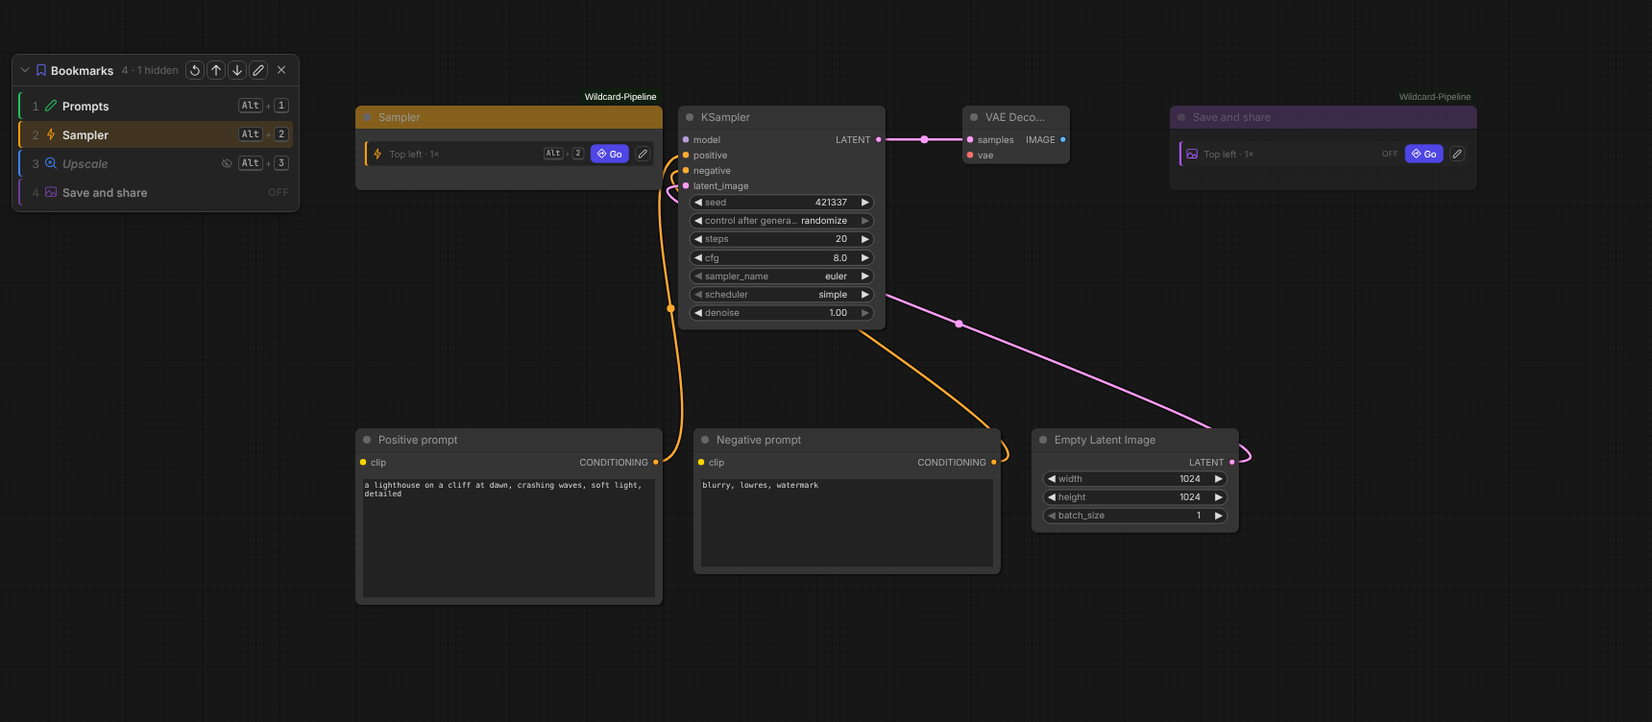
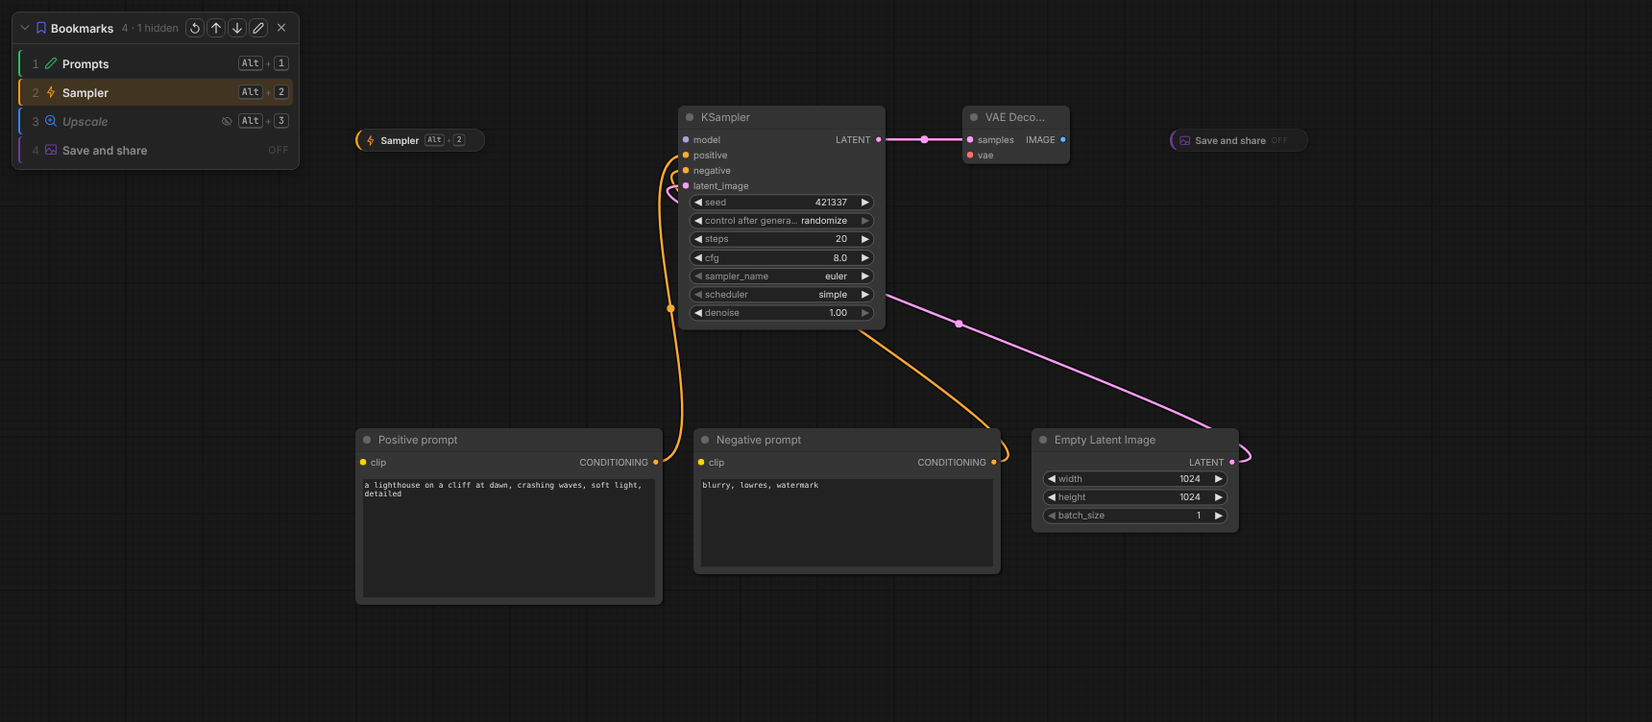
docs(canvas): frameless bookmarks, Use this view, the draggable dock and new screenshots

Changed region(s): [[0.0, 0.0306, 0.1849, 0.2753], [0.2157, 0.1223, 0.4006, 0.2753], [0.7087, 0.1223, 0.8936, 0.2447]]

diff --git a/src/manager/docs/figures.ts b/src/manager/docs/figures.ts
@@ -20,9 +20,9 @@ export const FIGURE_TEXT: Record<string, string> = {
   "wp-label-grid-flow":
     "Flow diagram of three nodes left to right: WP Context Loop (a sweep), an arrow labelled frames, WP Image Filter (images + labels), an arrow labelled images, labels, and WP Label & Grid (labelled grid). Caption: wire the Image Filter's images and labels into the node; the labels name each frame's sweep options, so the grid can sort by them.",
   "images/docs/wp-bookmark.png":
-    "Screenshot of a small text-to-image graph (Positive prompt, Negative prompt and Empty Latent Image into a KSampler, then VAE Decode) with two WP Bookmark nodes. On the right, Sampler (amber title bar) shows its read view: one line with a lightning icon, Centre · 1.25×, the shortcut Alt + 1, a Go button and a pencil to edit. On the left, Prompts (green title bar) is open in its editor: a pencil icon, colour #22c55e, the name and Go; Lands at shows a 3 × 3 grid with the top-left dot picked (Top left of the screen, 24 px in); Zoom is set to Keep current; the shortcut is Ctrl + S with a lightning (suggest) and × (clear) button, under which an amber warning reads Also Save Workflow (ComfyUI); Show on canvas is on, and Done closes the editor.",
+    "Screenshot of a small text-to-image graph (Positive prompt, Negative prompt and Empty Latent Image into a KSampler, then VAE Decode) with two WP Bookmarks, neither with a node frame. On the right, Sampler is a small pill: an amber lightning icon, the name Sampler and the shortcut Alt + 1. On the left, Prompts is open in its editor card with a green edge: a pencil icon button, colour #22c55e and the name; Lands at shows a 3 × 3 grid with the top-left dot picked (Top left of the screen, 24 px in) and a Use this view button; Zoom is set to Keep current; the shortcut is Ctrl + S with a lightning (suggest) and × (clear) button, under which an amber warning reads Also Save Workflow (ComfyUI); then the Show on canvas and Pinned switches, and Go and Done buttons.",
   "images/docs/wp-bookmark-dock.png":
-    "Screenshot of the Bookmarks dock, in view mode, at the top left of the canvas. Its header reads Bookmarks, 4 · 1 hidden, with Back, Previous, Next, a pencil to edit and Close. The rows show a number, a coloured icon, a name and a shortcut: 1 Prompts (Alt + 1), 2 Sampler (Alt + 2, highlighted as the bookmark just jumped to), 3 Upscale in grey italics with a small crossed-out eye because it is hidden on the canvas (Alt + 3), and 4 Save and share marked OFF because the node is muted. To the right of the dock the canvas shows the Sampler bookmark in its one-line read view (Top left · 1×, Alt + 2, Go, pencil), landed at the top left beside the dock, then the KSampler, VAE Decode and the muted Save and share bookmark (greyed, marked OFF), with the prompt and latent nodes below; the hidden Upscale bookmark is not drawn.",
+    "Screenshot of the Bookmarks dock, in view mode, at the top left of the canvas, slightly see-through. Its header reads Bookmarks, 4 · 1 hidden, with Back, Previous, Next, a pencil to edit and Close. The rows show a number, a coloured icon, a name and a shortcut: 1 Prompts (Alt + 1), 2 Sampler (Alt + 2, highlighted as the bookmark just jumped to), 3 Upscale in grey italics with a small crossed-out eye because it is hidden on the canvas (Alt + 3), and 4 Save and share marked OFF because the node is muted. On the canvas, the Sampler bookmark's pill (Alt + 2) sits by the KSampler and VAE Decode, the muted Save and share pill is greyed and marked OFF, and the prompt and latent nodes are below; the hidden Upscale bookmark is not drawn.",
   "images/docs/wp-label-grid.png":
     "Screenshot of a canvas with three nodes. On the left, Your images (a 3 × 3 sweep) sends images and labels into WP Label & Grid. Its panel reads 9 images · labelled · grid 1645×2246 at the top; under LABEL the text is {label}, placed below the image with Over image on, the default font at automatic size, white text on a see-through black band; under GRID the switch is on and the XY plot preset is picked from a row of presets (Fit the run, Sheet, Side by side, Frame rows, Frame columns, XY plot, No grid), with Rows from label part 2 (dawn, noon, night), Columns from label part 3 (pastel, vivid, ink) and the title Time of day × style. Its grid output feeds a Preview Image showing a 3 × 3 grid of mountain landscapes under that title, with column headers pastel, vivid, ink, row headers dawn, noon, night, and each cell labelled #1 to #9 on a band over its bottom edge.",
   "seeds-and-loops-flow":
@@ -90,7 +90,7 @@ export const FIGURE_TEXT: Record<string, string> = {
   "images/docs/wp-note-editor.png":
     "A WP Note open in its editor next to a finished Step card. The editor has Tone (Step, Icon, Plain) with the step number 2, Look (Card, Sticky, Label) with the Pinned switch, a row of colour presets with the custom colour #ef4444, the Title Label each frame, and the Text with its formatting bar: bold, italic, strikethrough, code, bulleted and numbered list, quote, link (pressed), icon and a preview eye. The link panel is open: Docs page is picked, the page is WP Label & Grid and the section Set it up, the text is Set up the grid, the style is Button with the Th Large icon, and Colour is #22c55e (None follows the note), with Cancel and Insert link. Under it is the note's Markdown and a Done button. The card on the right, step 1 Load your model, reads Pick the checkpoint in the loader. $model_family follows it, so the prompt fits the model, with two link buttons: WP Model Info in the note's colour and Writing prompts for your model in green.",
   "images/docs/wp-note-bookmark.png":
-    "Screenshot of WP Notes used as bookmarks. On the left, the Bookmarks dock lists three rows: 1 Load your model (a blue bookmark icon, Alt + 1, highlighted after a jump), 2 Sampler (an amber lightning icon, Alt + 3) and 3 Label each frame (a red bookmark icon, Alt + 2). In the middle, the note Label each frame is open in its editor (Step 2, Card, colour #ef4444, its title and Markdown text); at the bottom the Also a bookmark switch is on, with the hint Jump here from the Bookmarks dock or a shortcut, and under it Lands at with the centre of a 3 × 3 grid picked (Centre of the screen, 24 px in), Zoom set to 1 ×, and the shortcut Alt + 2, then Done. On the right, the note card Load your model (step 1, blue) shows a small bookmark mark in its head next to the pencil, and below it a WP Bookmark node, Sampler, in its one-line read view: Centre · 1.25×, Alt + 3, Go and a pencil.",
+    "Screenshot of WP Notes used as bookmarks. On the left, the Bookmarks dock lists three rows: 1 Load your model (its step number 1 in a blue circle, Alt + 1, highlighted after a jump), 2 Sampler (an amber lightning icon, Alt + 3) and 3 Label each frame (its step number 2 in a red circle, Alt + 2). In the middle, the note Label each frame is open in its editor (Step 2, Card, colour #ef4444, its title and Markdown text); at the bottom the Also a bookmark switch is on, with the hint Jump here from the Bookmarks dock or a shortcut, and under it Lands at with the centre of a 3 × 3 grid picked (Centre of the screen, 24 px in) and a Use this view button, Zoom set to 1 ×, and the shortcut Alt + 2, then Done. On the right, the note card Load your model (step 1, blue) shows a small bookmark mark in its head next to the pencil, and below it a WP Bookmark, Sampler, as a pill: a lightning icon, its name and Alt + 3.",
   "images/docs/wp-note.png":
     "Four WP Notes on the canvas with no node frame around them. A Step 1 card, Load your model, with a $model_family code span and two docs buttons (WP Model Info, Writing prompts for your model); an amber Warning card with a triangle icon and a lock icon in its text; a green Tip sticky with a lightbulb, tinted with its colour; and a small purple Label pill, Label each frame, whose hover card is open above it with the label's text, a The grid docs button and an Edit button.",
   "images/docs/wp-toggles.png":

diff --git a/src/manager/docs/pages/nodes/wp-bookmark.vue b/src/manager/docs/pages/nodes/wp-bookmark.vue
@@ -8,12 +8,14 @@ import DocKeyList from "../../../components/docs/DocKeyList.vue";
 import CrossLinks from "../../../components/docs/CrossLinks.vue";
 
 const controls = [
-  { term: "Icon, colour, name", desc: "How the bookmark shows in the dock. The colour also tints the node's title bar." },
-  { term: "Go", desc: "Jump now." },
-  { term: "Lands at", desc: "A 3×3 grid: the corner, edge or centre of the screen the bookmark goes to, 24 px in from the edge (beside the dock while it's open)." },
+  { term: "Icon, colour, name", desc: "The icon opens the full icon list. The colour marks the pill and its dock row." },
+  { term: "Lands at", desc: "A 3×3 grid: the corner, edge or centre of the free part of the screen (what ComfyUI's sidebar, breadcrumb, toolbar and zoom controls leave), 24 px in. A jump that would land under the dock moves just enough to clear it." },
+  { term: "Use this view", desc: "Lands on the view on screen now, at its zoom, instead of a grid spot." },
   { term: "Zoom", desc: "Set jumps to that zoom (0.1–10×; the magnifier takes the zoom you're at). Keep current leaves it alone." },
-  { term: "Shortcut", desc: "Record, then press the keys (Esc cancels, Backspace clears). The bolt picks a free one." },
-  { term: "Show on canvas", desc: "Off hides the node: not drawn, not clickable, not selectable. The dock's eye shows it again." },
+  { term: "Shortcut", desc: "Record, then press the keys (Esc cancels, Backspace clears). The bolt picks a free one, a new one on each press." },
+  { term: "Show on canvas", desc: "Off hides the node when you press Done: not drawn, not clickable, not selectable. The dock's eye shows it again." },
+  { term: "Pinned", desc: "ComfyUI's own pin: a pinned bookmark can't be moved by accident." },
+  { term: "Go", desc: "Tries the jump." },
 ];
 
 const clashes = [
@@ -23,10 +25,10 @@ const clashes = [
 ];
 
 const dock = [
-  { term: "Row", desc: "Click to jump. Number, icon, name and shortcut; a mark for one hidden on the canvas or inside a subgraph, OFF for a muted one." },
+  { term: "Row", desc: "Click to jump. Number (a Step note's in its circle), icon, name and shortcut; a mark for one hidden on the canvas or inside a subgraph, OFF for a muted one." },
   { term: "Back", desc: "Return to where you were before the last jump." },
   { term: "↑ / ↓", desc: "Step through the bookmarks that are on, in dock order." },
-  { term: "Pencil", desc: "Edit mode: drag the grips to reorder, the eye shows or hides a bookmark on the canvas, the arrow moves the dock to the other side, and Bookmark this view adds one at the top-left of the screen with the zoom you're at. Done goes back." },
+  { term: "Pencil", desc: "Edit mode: drag the dock by its header to put it anywhere (it stays there), drag the grips to reorder, the eye shows or hides a bookmark on the canvas, the arrow puts the dock back on the other side, and Bookmark this view adds one. Done goes back." },
 ];
 </script>
 
@@ -49,7 +51,7 @@ const dock = [
       <DocImage
         src="images/docs/wp-bookmark.png"
         ratio="1720 / 752"
-        caption="Sampler in its one-line read view; Prompts open in the editor, where the clash check flags Ctrl+S."
+        caption="Sampler as a pill on the canvas; Prompts open in its editor, where the clash check flags Ctrl+S."
       />
     </DocSection>
 
@@ -61,12 +63,12 @@ const dock = [
       </p>
     </DocSection>
 
-    <DocSection title="Read view and editor">
+    <DocSection title="On the canvas">
       <p>
-        A saved bookmark shows one line: its icon, where it lands and its zoom, its shortcut (with a
-        warning mark when something else uses it), <b>Go</b> and a pencil. The pencil, or a
-        double-click on the node, opens the editor; <b>Done</b> closes it. A new bookmark opens in the
-        editor.
+        A bookmark has no node frame: it is a small pill with its icon, name and shortcut (a warning
+        mark when something else uses the key, a pin when it is pinned). Hover it for where it lands.
+        Select it to show its pencil; the pencil or a double-click opens the editor, and <b>Done</b>
+        closes it. A new bookmark opens in the editor.
       </p>
     </DocSection>
 
@@ -95,14 +97,16 @@ const dock = [
       <DocKeyList :items="clashes" />
       <DocCallout variant="warn">
         Extensions that read keys themselves can't be seen in advance. If one takes the key first,
-        the bookmark doesn't jump and a toast names the combo once, so you can pick another.
+        the bookmark doesn't jump and a toast names the combo once, so you can pick another. The key
+        is remembered: the clash check marks it from then on and the bolt never suggests it.
       </DocCallout>
     </DocSection>
 
     <DocSection title="The Bookmarks dock">
       <p>
         The bookmark button in the top bar shows or hides the dock. It also opens by itself in a
-        workflow with bookmarks, unless you closed it.
+        workflow with bookmarks, unless you closed it. It sits inside ComfyUI's bars and is
+        see-through until you point at it, so what is under it still shows.
       </p>
       <DocImage
         src="images/docs/wp-bookmark-dock.png"

diff --git a/docs/release-notes/next.md b/docs/release-notes/next.md
@@ -26,7 +26,7 @@ The assistant is new and **off by default**. Turn it on in **Settings › AI ass
 - **New node: WP Note.** A note for explaining a workflow that looks like a panel, not a node: no title bar and no node frame in either renderer, the selection outline hugs it, it drags and selects like a node, and you double-click it to edit. Pick a tone (**Step** with a number, **Icon** with any icon, or **Plain**), a colour (presets that follow the theme, Tip, Info, Warning, Danger and more, or any colour), and a look (**Card**, **Sticky**, or a small **Label** pill). The text has a formatting bar: bold, italic, lists, quotes, a preview, **icons** from the whole PrimeIcons set in any colour, and **links** to a web page or to any page and section of the built-in docs, as a text link or a button with an icon, as many as you like and anywhere in the text. A Card or Sticky resizes from its corner (the height follows the text); a Label fits its title, and hovering it shows its text and links in a card you can click. Keys typed in the editor never trigger ComfyUI's shortcuts. New notes start pinned, and the editor's **Pinned** switch uses ComfyUI's own pin. It never runs and is left out of the prompt.
 - **WP Note links in colour, at the caret.** A link from the note's formatting bar can have its own colour, as a button or a text link (`{button pi-play #22c55e}`, `{#22c55e}`); without one it keeps the note's colour. Links and icons now go where the caret is when you press Insert: they used to land where it was when the panel opened, so clicking in the text after opening the panel put them at the old spot (often the end).
 - **WP Var → Choice.** A new node sends a $variable into any dropdown input: the checkpoint, sampler, scheduler, VAE or a LoRA name, so a wildcard can pick the model per image or per loop frame. It reads the list of the dropdown it's wired into and matches the text loosely (capitals, folders, extension and spaces don't matter, so "wai nsfw v14" finds `illustrious/waiNSFW_v14.safetensors`), or exactly, or forgiving typos. When nothing matches it uses the fallback you pick from a dropdown of that same list and warns, or stops the run if you'd rather. ComfyUI doesn't check text that comes in on a wire, so a wrong name used to fail inside the loader.
-- **New node: WP Bookmark.** Marks a spot on the canvas to jump back to, and does more than rgthree's bookmark: pick where on screen it lands (any corner, edge or the centre, on a 3×3 grid), jump to a set zoom or keep yours, and record a shortcut. A saved bookmark shows one compact line (where it lands, its zoom, its shortcut, Go); the pencil or a double-click opens the editor. While you set the shortcut the node lists who else uses it (ComfyUI, your own rebinds, other extensions, other bookmarks, rgthree bookmarks), refuses keys the browser keeps and suggests a free one; if an extension the check can't see takes the key first, a toast says so once. The jump glides there, lands beside the dock rather than under it, and opens a subgraph when the bookmark is inside one. A bookmark can be hidden from the canvas so it doesn't clutter it (not drawn, not clickable), and muting or bypassing one turns its shortcut off. The new **Bookmarks** dock (the bookmark button in the top bar) lists every bookmark with its shortcut: click to jump, and Back, Previous and Next walk them. Its pencil opens edit mode to reorder them, show or hide one on the canvas and add one for the view you're at. Right-click the canvas for **Add WP Bookmark here**, or **Bookmark this view** in the dock's edit mode to save the view you're looking at. Next, Previous, Back, Bookmark this view and the dock are also commands you can bind in Settings › Keybinding. A **WP Note** can be a bookmark too: **Also a bookmark** in its editor gives it the same landing spot, zoom and shortcut, a small bookmark mark on the note and a row in the dock, and it never hides. It never runs and is left out of the prompt.
+- **New node: WP Bookmark.** Marks a spot on the canvas to jump back to, and does more than rgthree's bookmark. It has no node frame: on the canvas it is a small pill with its icon, name and shortcut, and a double-click (or its pencil) opens the editor. Pick where on screen it lands (any corner, edge or the centre, on a 3×3 grid, or **Use this view** to bring back the view you're looking at), jump to a set zoom or keep yours, and record a shortcut. While you set the shortcut the node lists who else uses it (ComfyUI, your own rebinds, other extensions, other bookmarks, rgthree bookmarks), refuses keys the browser keeps and suggests a free one; if an extension the check can't see takes the key first, a toast says so once and the key is remembered as taken. The jump glides there, measures what ComfyUI's sidebar, breadcrumb, toolbar and zoom controls cover so the bookmark lands in the free part of the screen, steps around the dock, and opens a subgraph when the bookmark is inside one. A bookmark can be hidden from the canvas so it doesn't clutter it (not drawn, not clickable) or pinned, and muting or bypassing one turns its shortcut off. The new **Bookmarks** dock (the bookmark button in the top bar) lists every bookmark with its shortcut: click to jump, and Back, Previous and Next walk them. It is see-through until you point at it, and its pencil opens edit mode to drag it anywhere, reorder, show or hide one on the canvas and add one for the view you're at. Right-click the canvas for **Add WP Bookmark here**, or **Bookmark this view** in the dock's edit mode to save the view you're looking at. Next, Previous, Back, Bookmark this view and the dock are also commands you can bind in Settings › Keybinding. A **WP Note** can be a bookmark too: **Also a bookmark** in its editor gives it the same landing spot, zoom and shortcut, a small bookmark mark on the note (a Step note shows its number in the dock) and a row in the dock, and it never hides. A pinned note shows a pin mark. It never runs and is left out of the prompt.
 - **Context Loop takes a list of values.** WP Context Loop has an optional **values** text input: one frame per line (or per list entry), each writing its line to `$iteration_value`, so a list from another node (subjects, styles, file lines) drives the frames. With a sweep on, every value runs every combination.
 - **Model Info takes wires.** WP Model Info has optional **family**, **variant** and **name** text inputs, so another node (a switch or a text node) can set the model variables. A wired value beats the pin and detection, a wired name goes through the variant rules, and the row shows it came from the wire.
 - **Prompt Cleaner takes a blocklist wire.** WP Prompt Cleaner has an optional **blocklist** text input whose entries join the panel's list, so one word list from another node can feed several cleaners.

diff --git a/docs/help/WP_Bookmark.md b/docs/help/WP_Bookmark.md
@@ -10,20 +10,22 @@ Marks a spot on the canvas so you can jump back to it with a shortcut or from th
 
 A **WP Note** can be a bookmark too: turn on **Also a bookmark** in its editor (see WP Note). It gets the same settings and shows in the dock, but never hides.
 
-## Read view and editor
+## On the canvas
 
-A saved bookmark shows one line: its icon, where it lands and its zoom, its shortcut (with a warning mark when something else uses it), **Go** and a pencil. The pencil, or a double-click on the node, opens the editor; **Done** closes it. A new bookmark opens in the editor.
+A bookmark has no node frame: it is a small pill with its icon, name and shortcut (a warning mark when something else uses the key, a pin when it is pinned). Hover it for where it lands. Select it to show its pencil; the pencil or a double-click opens the editor, and **Done** closes it. A new bookmark opens in the editor.
 
 ## Settings
 
 | Setting | Notes |
 |---|---|
-| Icon, colour, name | Shown in the dock. The colour also tints the node's title bar. |
-| Go | Jumps now. |
-| Lands at | A 3×3 grid: the corner, edge or centre of the screen the bookmark goes to, 24 px in from the edge (beside the dock while it's open). Top left matches rgthree's bookmark. |
+| Icon, colour, name | The icon opens the full icon list. The colour marks the pill and its dock row. |
+| Lands at | A 3×3 grid: the corner, edge or centre of the free part of the screen the bookmark goes to, 24 px in. The free part is what ComfyUI's sidebar, breadcrumb, toolbar and zoom controls leave; a jump that would land under the dock moves just enough to clear it. |
+| Use this view | Lands on the view on screen now, at its zoom, instead of a grid spot. |
 | Zoom | **Set** jumps to that zoom (0.1–10×; the magnifier takes the zoom you're at). **Keep current** leaves the zoom alone. |
-| Shortcut | Click **Record**, then press the keys. Esc cancels, Backspace clears. The bolt picks a free one. |
-| Show on canvas | Off hides the node: it isn't drawn and can't be clicked or selected. Show it again from the dock's eye. |
+| Shortcut | Click **Record**, then press the keys. Esc cancels, Backspace clears. The bolt picks a free one (a new one on each press). |
+| Show on canvas | Off hides the node when you press **Done**: it isn't drawn and can't be clicked or selected. Show it again from the dock's eye. |
+| Pinned | ComfyUI's own pin: a pinned bookmark can't be moved by accident. |
+| Go | Tries the jump. |
 
 Muting or bypassing a bookmark turns it off: its shortcut does nothing and the dock greys it.
 
@@ -35,14 +37,14 @@ While you set a shortcut the node lists who else uses it:
 - **Warning**: a ComfyUI shortcut (including ones you changed in Settings › Keybinding), another extension's shortcut, another WP Bookmark, or an rgthree bookmark in the same workflow.
 - **Note**: a key with no Ctrl or Alt fires whenever the canvas has focus (never while you type).
 
-Extensions that read keys themselves can't be seen in advance. If one of them takes the key first, the bookmark doesn't jump and a toast names the combo once, so you can pick another.
+Extensions that read keys themselves can't be seen in advance. If one of them takes the key first, the bookmark doesn't jump and a toast names the combo once, so you can pick another. The key is remembered: the clash check marks it from then on and the bolt never suggests it.
 
 ## The Bookmarks dock
 
-The bookmark button in the top bar shows or hides it; it also opens by itself in a workflow with bookmarks (unless you closed it). It has two modes:
+The bookmark button in the top bar shows or hides it; it also opens by itself in a workflow with bookmarks (unless you closed it). It sits inside ComfyUI's bars and is see-through until you point at it, so what is under it still shows. It has two modes:
 
-- **View**: each row shows its number, icon, name and shortcut (a mark for one hidden on the canvas or in a subgraph, OFF for a muted one). **Click** a row to jump. **Back** returns to where you were before the last jump; **↑ / ↓** step through the bookmarks in dock order.
-- **Edit** (the pencil): drag the grips to reorder, the **eye** shows or hides a bookmark on the canvas, the arrow moves the dock to the other side, and **Bookmark this view** adds one at the top-left of the screen with the zoom you're at. **Done** goes back to view.
+- **View**: each row shows its number (a Step note's number in its circle), icon, name and shortcut (a mark for one hidden on the canvas or in a subgraph, OFF for a muted one). **Click** a row to jump. **Back** returns to where you were before the last jump; **↑ / ↓** step through the bookmarks in dock order.
+- **Edit** (the pencil): drag the dock by its header to put it anywhere (it stays there), drag the grips to reorder, the **eye** shows or hides a bookmark on the canvas, the arrow puts the dock back on the other side, and **Bookmark this view** adds one. **Done** goes back to view.
 
 The caret folds the dock. Bookmarks inside a subgraph are listed too; jumping opens the subgraph.
 

diff --git a/docs/help/WP_Note.md b/docs/help/WP_Note.md
@@ -26,7 +26,7 @@ Keys you type in the editor stay in the editor: Delete, Ctrl+Z and the other Com
 
 ## Also a bookmark
 
-Turn on **Also a bookmark** at the bottom of the editor and the note joins the **Bookmarks** dock: pick where it lands on screen, its zoom and a shortcut, the same settings and clash check as a WP Bookmark. A new one gets the next free shortcut. The dock shows it in the note's colour and icon, and a small bookmark mark on the note (its tooltip names the key) says it is one. A note can't be hidden on the canvas, and muting it turns its shortcut off without fading it.
+Turn on **Also a bookmark** at the bottom of the editor and the note joins the **Bookmarks** dock: pick where it lands on screen, its zoom and a shortcut, the same settings and clash check as a WP Bookmark. A new one gets the next free shortcut. The dock shows it in the note's colour and icon, and a small bookmark mark on the note (its tooltip names the key) says it is one; a pinned note shows a pin mark next to it. A note can't be hidden on the canvas, and muting it turns its shortcut off without fading it.
 
 ## The formatting bar
 
